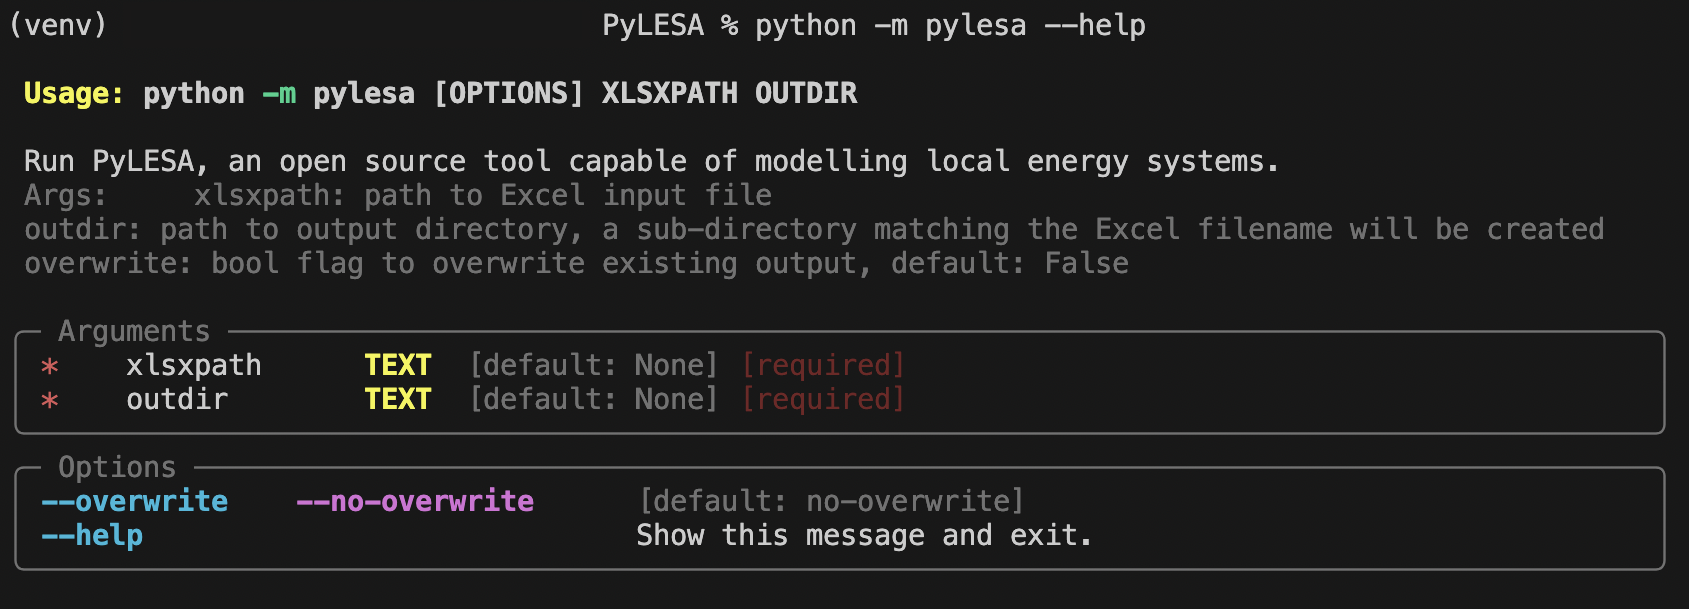
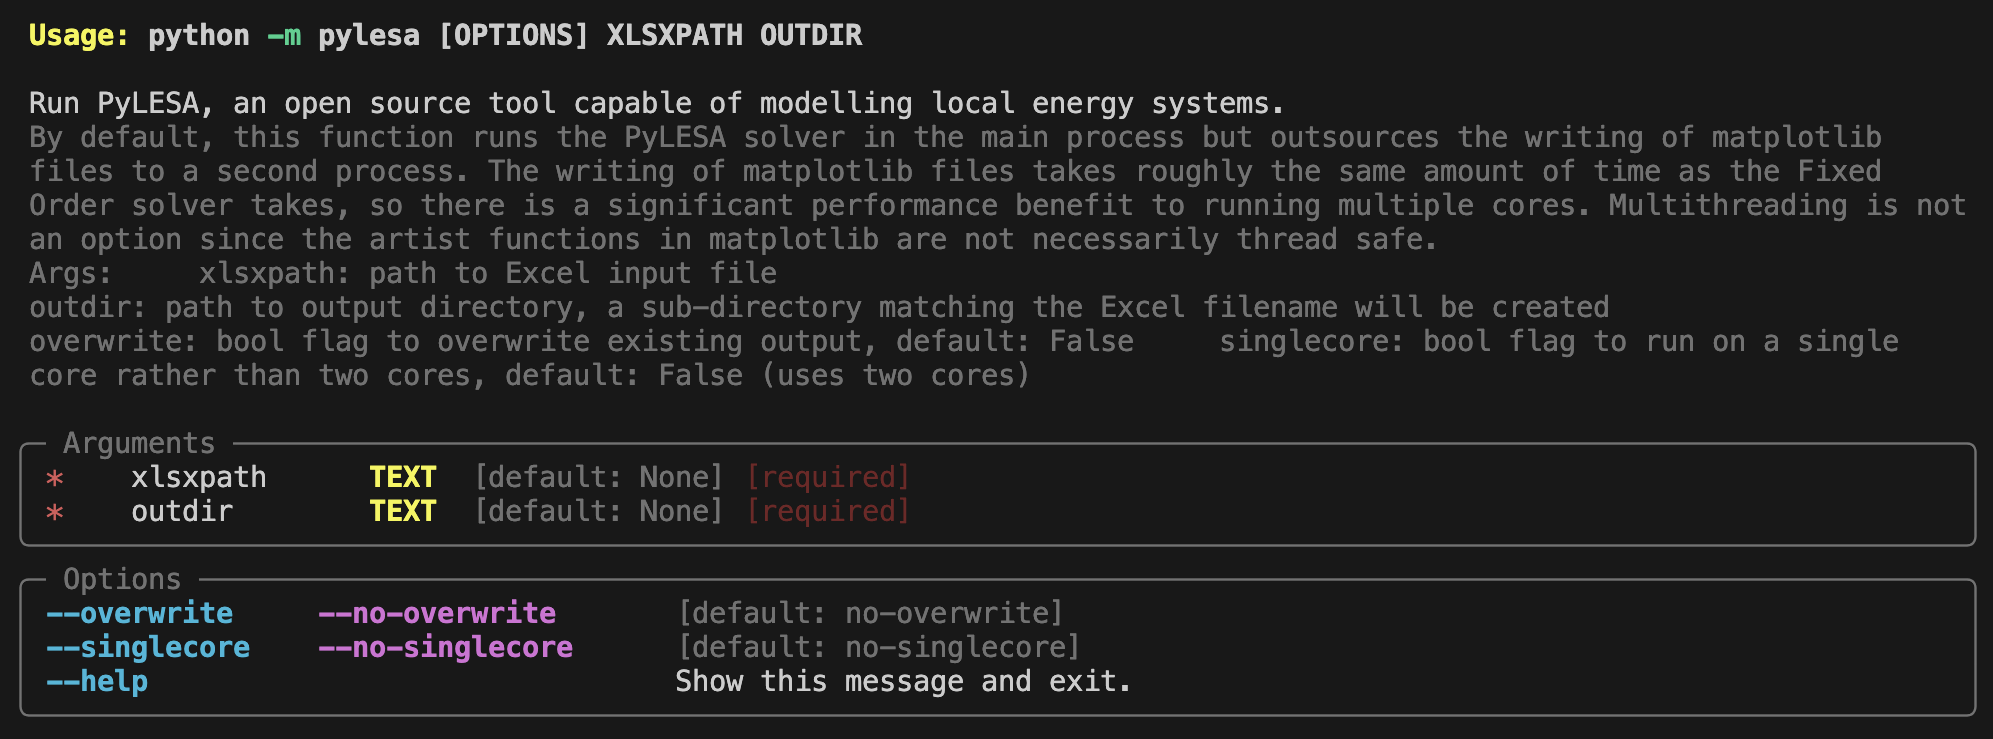
Added commandline option for single core run

Changed region(s): [[0.0, 0.1248, 1.0, 0.9984], [0.0, 0.0, 0.6773, 0.0624]]

diff --git a/pylesa/main.py b/pylesa/main.py
@@ -36,13 +36,21 @@ def run_solver(controller: str, subname:  str, outdir: Path, first_hour: int, ti
         LOG.error(msg)
         raise ValueError(msg)
 
-def main(xlsxpath: str, outdir: str, overwrite: bool = False):
+def main(xlsxpath: str, outdir: str, overwrite: bool = False, singlecore: bool = False):
     """Run PyLESA, an open source tool capable of modelling local energy systems.
     
+    By default, this function runs the PyLESA solver in the main process but
+    outsources the writing of matplotlib files to a second process. The writing
+    of matplotlib files takes roughly the same amount of time as the Fixed Order
+    solver takes, so there is a significant performance benefit to running
+    multiple cores. Multithreading is not an option since the artist functions
+    in matplotlib are not necessarily thread safe.
+
     Args:
         xlsxpath: path to Excel input file\n
         outdir: path to output directory, a sub-directory matching the Excel filename will be created\n
         overwrite: bool flag to overwrite existing output, default: False
+        singlecore: bool flag to run on a single core rather than two cores, default: False (uses two cores)
     """
     xlsxpath = valid_fpath(xlsxpath)
     outdir = valid_dir(outdir) / xlsxpath.stem
@@ -87,31 +95,40 @@ def main(xlsxpath: str, outdir: str, overwrite: bool = False):
     timesteps = controller_info['total_timesteps']
     first_hour = controller_info['first_hour']
 
-    # Create separate process for writing output
-    p = OutputProcess()
-
-    try:
-        # Start output process
-        # Process waits to write output until a job is submitted
-        p.start(outputs.run_plots)
-
-        # Run controller for all combinations
-        jobs = {}
+    if singlecore:
+        # Single core
         for i in tqdm(range(num_combos), desc="Jobs"):
             # combo to be run
             subname = combinations[i]
-            jobs[subname] = [controller, subname, outdir, first_hour, timesteps]
             run_solver(controller, subname, outdir, first_hour, timesteps)
-            # Submit job to output queue for writing
-            p.submit([outdir, subname])
+            # Run output
+            outputs.run_plots(outdir, subname)
+    else:
+        # Run two processes:
+        # - main process runs the solver
+        # - second process runs the output (to produce matplotlib figures)
+        p = OutputProcess()
 
-    except Exception as e:
-        p.cancel()
-        raise e
+        try:
+            # Start output process
+            # Process waits to write output until a job is submitted
+            p.start(outputs.run_plots)
 
-    finally:
-        # Stop output process once job is complete
-        p.stop()
+            # Run controller for all combinations
+            for i in tqdm(range(num_combos), desc="Jobs"):
+                # combo to be run
+                subname = combinations[i]
+                run_solver(controller, subname, outdir, first_hour, timesteps)
+                # Submit job to output queue for writing
+                p.submit([outdir, subname])
+
+        except Exception as e:
+            p.cancel()
+            raise e
+
+        finally:
+            # Stop output process once job is complete
+            p.stop()
 
     tx = time.time()
     outputs.run_KPIs(outdir)
